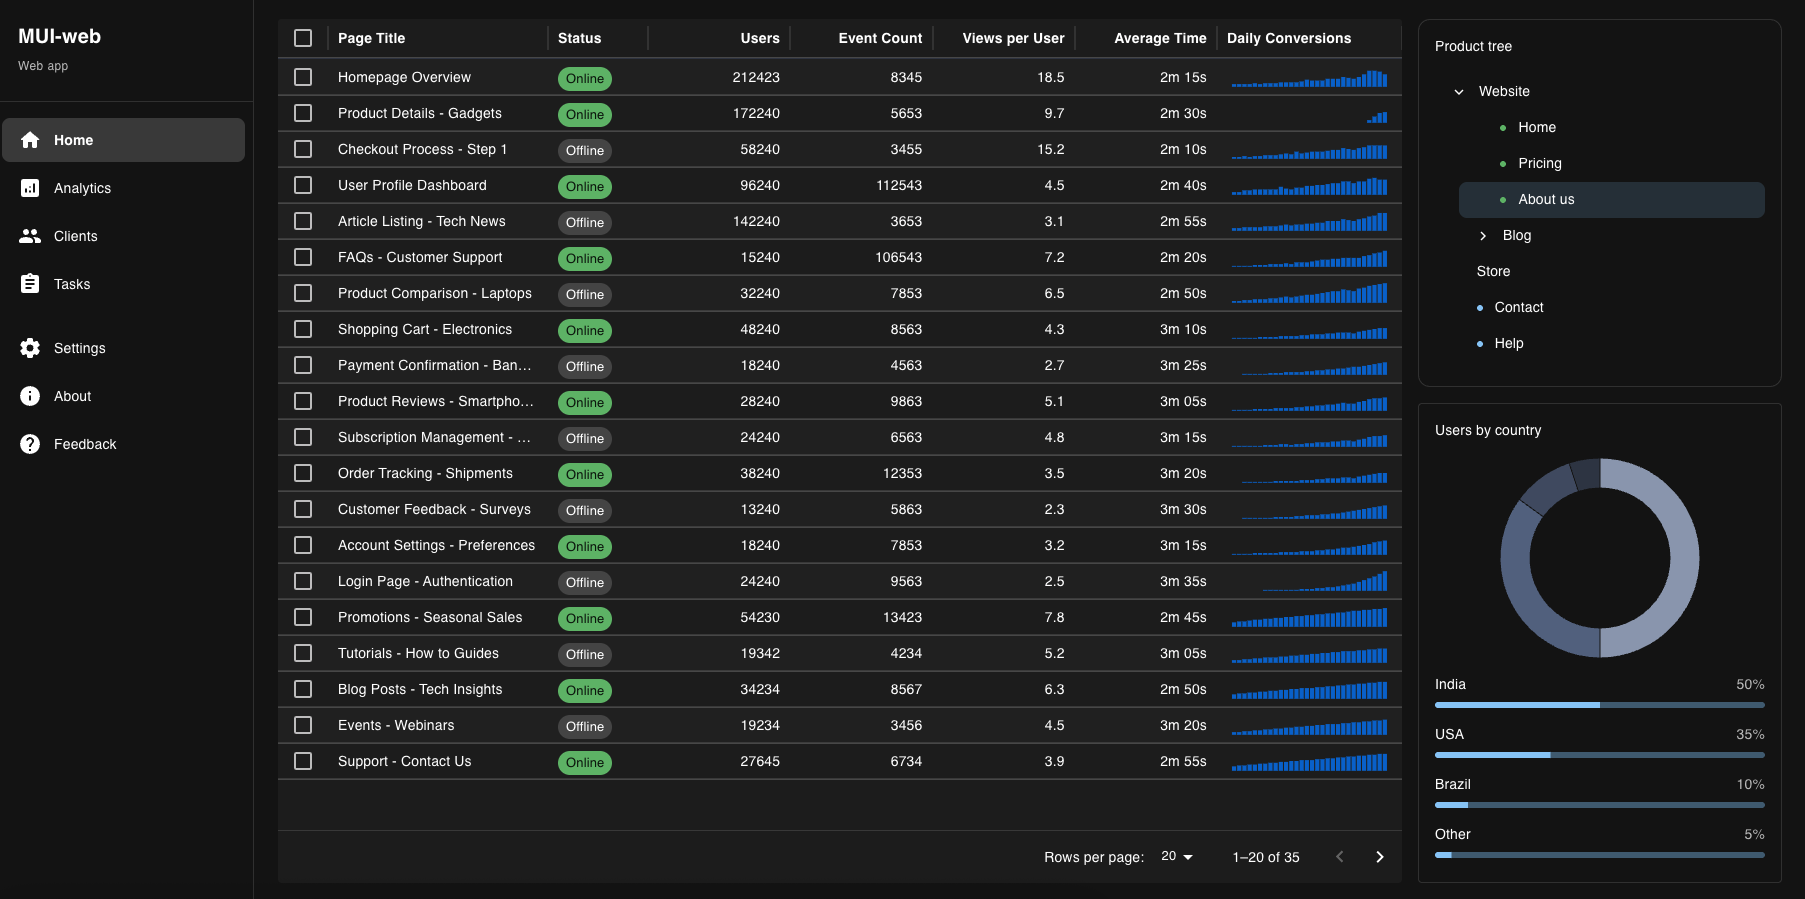
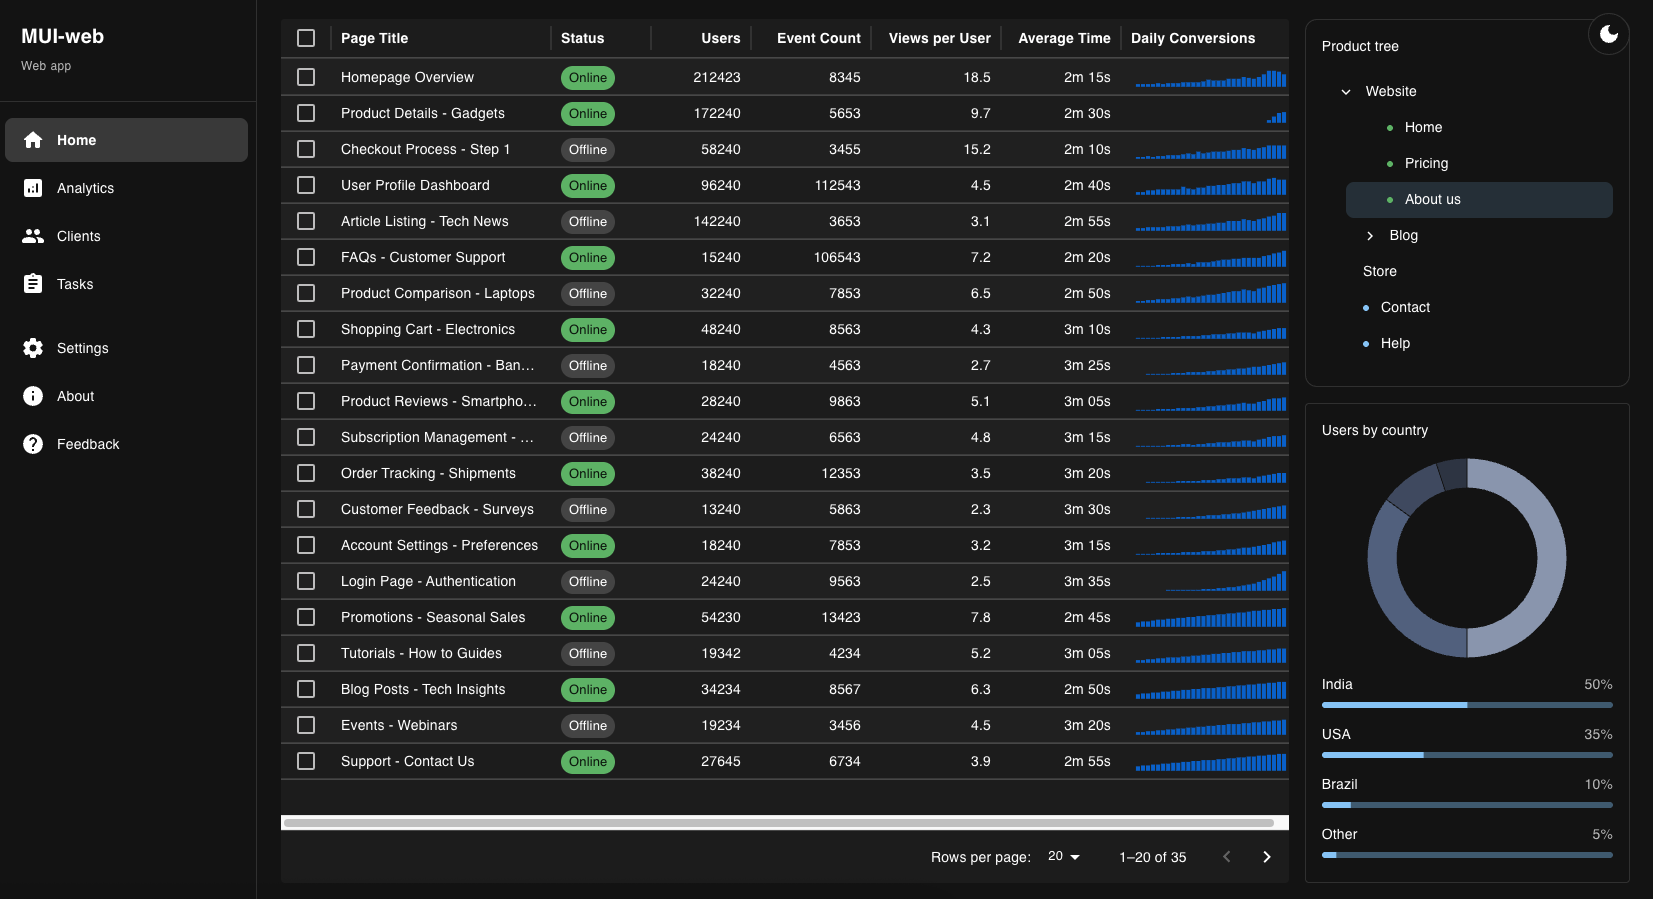
make responsive changes

diff --git a/src/pages/Dashboard.jsx b/src/pages/Dashboard.jsx
@@ -1,4 +1,8 @@
-import { Grid, Stack, Typography } from "@mui/material";
+import Grid from "@mui/material/Grid";
+import Box from "@mui/material/Box";
+import Stack from "@mui/material/Stack";
+import Typography from "@mui/material/Typography";
+
 import DashboardLayout from "../layout/DashboardLayout";
 import StatCard from "../components/StatCard";
 import HighlightedCard from "../components/HighlightedCard";
@@ -41,56 +45,60 @@ const data = [
     ],
   },
 ];
+
 export default function Dashboard({ toggleTheme }) {
   return (
     <DashboardLayout toggleTheme={toggleTheme}>
-      <Typography variant="h6" sx={{ mb: 2 }}>
-        Overview
-      </Typography>
+      <Box sx={{ width: "100%", maxWidth: { sm: "100%", md: "1700px" } }}>
+        <Typography component="h2" variant="h6" sx={{ mb: 2 }}>
+          Overview
+        </Typography>
 
-      <Grid
-        container
-        spacing={2}
-        columns={12}
-        sx={{ mb: (theme) => theme.spacing(2) }}
-      >
-        {data.map((card, index) => (
-          <Grid key={index} size={{ xs: 12, sm: 6, lg: 3 }}>
-            <StatCard {...card} />
+        <Grid
+          container
+          spacing={2}
+          columns={12}
+          sx={{ mb: (theme) => theme.spacing(2) }}
+        >
+          {data.map((card, index) => (
+            <Grid key={index} size={{ xs: 12, sm: 6, lg: 3 }}>
+              <StatCard {...card} />
+            </Grid>
+          ))}
+
+          <Grid size={{ xs: 12, sm: 6, lg: 3 }}>
+            <HighlightedCard />
           </Grid>
-        ))}
-        <Grid size={{ xs: 12, sm: 6, lg: 3 }}>
-          <HighlightedCard />
-        </Grid>
-        <Grid size={{ xs: 12, md: 6 }}>
-          <AreaChartCard />
-        </Grid>
-        <Grid size={{ xs: 12, md: 6 }}>
-          <BarChartCard />
-        </Grid>
-      </Grid>
 
-      <Typography component="h2" variant="h6" sx={{ mb: 2 }}>
-        Details
-      </Typography>
+          <Grid size={{ xs: 12, md: 6 }}>
+            <AreaChartCard />
+          </Grid>
 
-      <Grid container spacing={2} columns={12}>
-        <Grid size={{ xs: 12, lg: 9 }}>
-          <ProductTable />
+          <Grid size={{ xs: 12, md: 6 }}>
+            <BarChartCard />
+          </Grid>
         </Grid>
 
-        <Grid size={{ xs: 12, lg: 3 }}>
-          <Stack
-            spacing={2}
-            sx={{
-              height: "100%",
-            }}
-          >
-            <ProductTree />
-            <UsersByCountry />
-          </Stack>
+        <Typography component="h2" variant="h6" sx={{ mb: 2 }}>
+          Details
+        </Typography>
+
+        <Grid container spacing={2} columns={12}>
+          <Grid size={{ xs: 12, lg: 9 }}>
+            <ProductTable />
+          </Grid>
+
+          <Grid size={{ xs: 12, lg: 3 }}>
+            <Stack
+              gap={2}
+              direction={{ xs: "column", sm: "row", lg: "column" }}
+            >
+              <ProductTree />
+              <UsersByCountry />
+            </Stack>
+          </Grid>
         </Grid>
-      </Grid>
+      </Box>
     </DashboardLayout>
   );
 }

diff --git a/src/layout/Sidebar.jsx b/src/layout/Sidebar.jsx
@@ -1,3 +1,4 @@
+import * as React from "react";
 import { Drawer, Box, Divider } from "@mui/material";
 import { useTheme } from "@mui/material/styles";
 import Typography from "@mui/material/Typography";
@@ -5,26 +6,11 @@ import MenuContent from "./MenuContent";
 
 const drawerWidth = 260;
 
-export default function Sidebar() {
+export default function Sidebar({ mobileOpen, handleDrawerToggle }) {
   const theme = useTheme();
 
-  return (
-    <Drawer
-      variant="permanent"
-      sx={{
-        width: drawerWidth,
-        flexShrink: 0,
-        "& .MuiDrawer-paper": {
-          width: drawerWidth,
-          boxSizing: "border-box",
-          backgroundColor: theme.palette.background.paper,
-          color: theme.palette.text.primary,
-          borderRight: `1px solid ${theme.palette.divider}`,
-          display: "flex",
-          flexDirection: "column",
-        },
-      }}
-    >
+  const drawerContent = (
+    <>
       <Box sx={{ p: 3 }}>
         <Typography variant="h6" fontWeight={600}>
           MUI-web
@@ -39,6 +25,43 @@ export default function Sidebar() {
       <Box sx={{ flexGrow: 1, overflow: "auto" }}>
         <MenuContent />
       </Box>
-    </Drawer>
+    </>
+  );
+
+  return (
+    <>
+      <Drawer
+        variant="permanent"
+        sx={{
+          display: { xs: "none", md: "block" },
+          width: drawerWidth,
+          flexShrink: 0,
+          "& .MuiDrawer-paper": {
+            width: drawerWidth,
+            boxSizing: "border-box",
+            borderRight: `1px solid ${theme.palette.divider}`,
+          },
+        }}
+        open
+      >
+        {drawerContent}
+      </Drawer>
+
+      <Drawer
+        variant="temporary"
+        open={mobileOpen}
+        onClose={handleDrawerToggle}
+        ModalProps={{ keepMounted: true }}
+        sx={{
+          display: { xs: "block", md: "none" },
+          "& .MuiDrawer-paper": {
+            width: drawerWidth,
+            boxSizing: "border-box",
+          },
+        }}
+      >
+        {drawerContent}
+      </Drawer>
+    </>
   );
 }

diff --git a/src/layout/Topbar.jsx b/src/layout/Topbar.jsx
@@ -1,11 +1,44 @@
-import { Box, Typography, IconButton } from "@mui/material";
+import React from "react";
+import { Box, IconButton } from "@mui/material";
+import { useTheme } from "@mui/material/styles";
+import MenuIcon from "@mui/icons-material/Menu";
 import DarkModeIcon from "@mui/icons-material/DarkMode";
+import LightModeIcon from "@mui/icons-material/LightMode";
 
-export default function Topbar({ toggleTheme }) {
+export default function Topbar({ toggleTheme, handleDrawerToggle }) {
+  const theme = useTheme();
+  const isDark = theme.palette.mode === "dark";
+
   return (
-    <Box sx={{ display: "flex", justifyContent: "flex-end", mr: 2 }}>
-      <IconButton onClick={toggleTheme}>
-        <DarkModeIcon />
+    <Box
+      sx={{
+        position: "fixed",
+        top: 16,
+        right: 24,
+        zIndex: theme.zIndex.drawer + 1,
+        display: "flex",
+        gap: 1,
+      }}
+    >
+      <IconButton
+        onClick={handleDrawerToggle}
+        sx={{
+          display: { xs: "flex", md: "none" },
+          backgroundColor: theme.palette.background.paper,
+          border: `1px solid ${theme.palette.divider}`,
+        }}
+      >
+        <MenuIcon />
+      </IconButton>
+
+      <IconButton
+        onClick={toggleTheme}
+        sx={{
+          backgroundColor: theme.palette.background.paper,
+          border: `1px solid ${theme.palette.divider}`,
+        }}
+      >
+        {isDark ? <DarkModeIcon /> : <LightModeIcon />}
       </IconButton>
     </Box>
   );

diff --git a/src/layout/DashboardLayout.jsx b/src/layout/DashboardLayout.jsx
@@ -1,14 +1,42 @@
+import * as React from "react";
 import { Box } from "@mui/material";
 import Sidebar from "./Sidebar";
 import Topbar from "./Topbar";
 
 export default function DashboardLayout({ children, toggleTheme }) {
+  const [mobileOpen, setMobileOpen] = React.useState(false);
+
+  const handleDrawerToggle = () => {
+    setMobileOpen((prev) => !prev);
+  };
+
   return (
-    <Box sx={{ display: "flex", minHeight: "100vh" }}>
-      <Sidebar />
-      <Box sx={{ flexGrow: 1, display: "flex", flexDirection: "column" }}>
-        <Topbar toggleTheme={toggleTheme} />
-        <Box sx={{ p: 3, maxWidth: 1700, mx: "auto", width: "100%" }}>
+    <Box sx={{ display: "flex" }}>
+      <Topbar
+        toggleTheme={toggleTheme}
+        handleDrawerToggle={handleDrawerToggle}
+      />
+
+      <Sidebar
+        mobileOpen={mobileOpen}
+        handleDrawerToggle={handleDrawerToggle}
+      />
+
+      <Box
+        component="main"
+        sx={{
+          flexGrow: 1,
+          p: 3,
+          width: "100%",
+        }}
+      >
+        <Box
+          sx={{
+            width: "100%",
+            maxWidth: "1700px",
+            mx: "auto",
+          }}
+        >
           {children}
         </Box>
       </Box>

diff --git a/README.md b/README.md
@@ -90,3 +90,10 @@ http://localhost:3000
   <img src="./output/light1_screenshot.png" width="47%" />
   <img src="./output/light2_screenshot.png" width="47%" />
 </p>
+
+<p align="center">
+  <img src="./output/mobile1_screenshot.png" width="23%" />
+  <img src="./output/mobile2_screenshot.png" width="23%" />
+  <img src="./output/mobile3_screenshot.png" width="23%" />
+  <img src="./output/mobile4_screenshot.png" width="23%" />
+</p>
